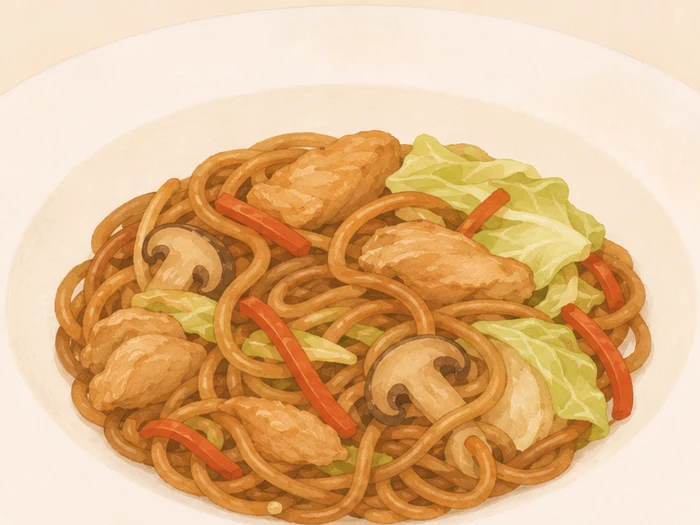
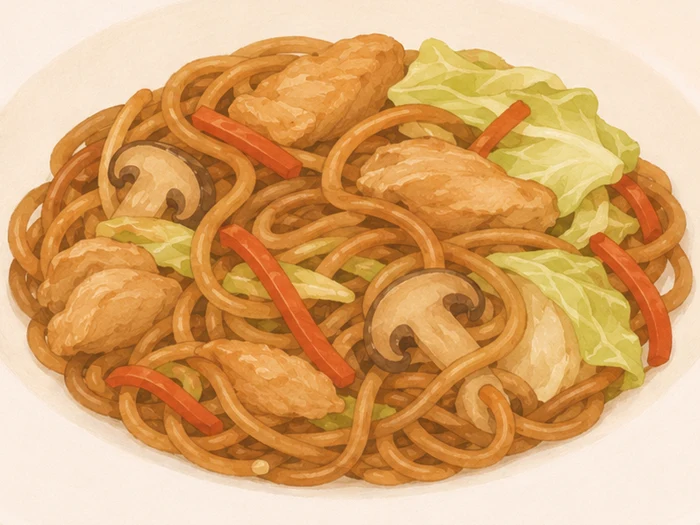
炒麵改用凹陷圈取景：圈寬 85%→99%、上下差 24→1
現況是照食物置中切的，凹陷圈只有 85% 寬、上距 25% 下距 1%，整盤明顯偏上。
改用凹陷圈錨點後跟義式那批同一個尺度。

ASSETS 63 → 64

diff --git a/index.html b/index.html
@@ -783,7 +783,7 @@ ol.steps li::before {
    ══════════════════════════════════════════════ */
 
 /* 素材版本。換過圖就 bump 一次，否則瀏覽器會一直用舊的快取 */
-const ASSETS = '63';
+const ASSETS = '64';
 const asset = p => p + '?v=' + ASSETS;
 
 const $ = (s, el = document) => el.querySelector(s);
